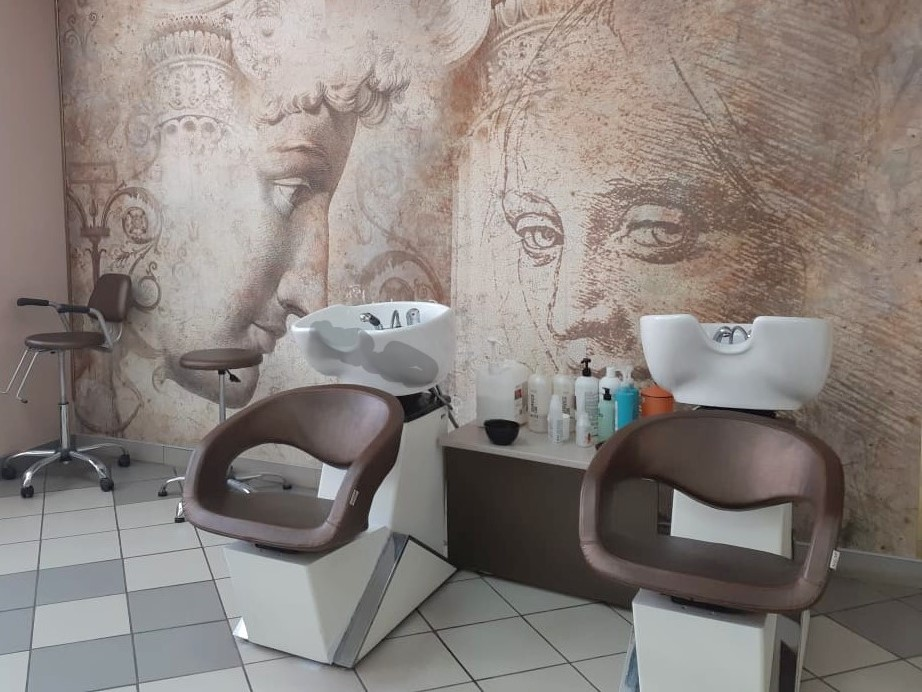
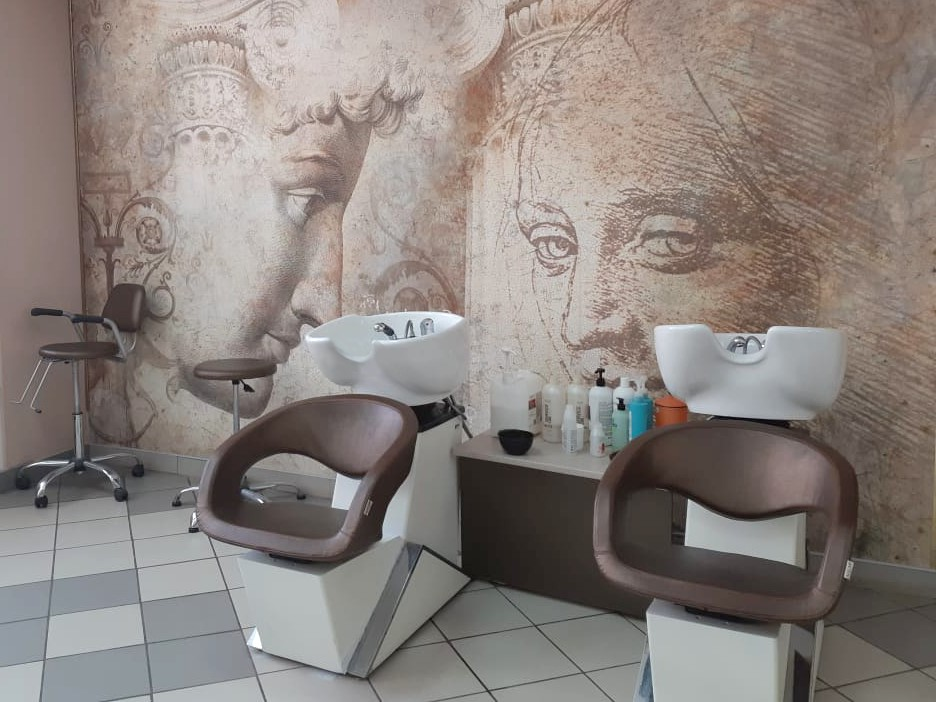
фото светлее

diff --git a/about-us.php b/about-us.php
@@ -87,8 +87,8 @@
                 <p>
                     Название нашего салона красоты выбрано не случайно – Афродита является символом женственности,
                     красоты и
-                    гармонии.<br> У нас каждый гость сможет почувствовать себя особенным и окунуться в мир роскоши и
-                    профессионализма.<br>
+                    гармонии.<br><br> У нас каждый гость сможет почувствовать себя особенным и окунуться в мир роскоши и
+                    профессионализма.<br><br>
                     Мы стремимся создавать комфортную и дружелюбную атмосферу, чтобы гости чувствовали себя уютно и
                     могли
                     насладиться процессом преображения.
